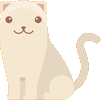
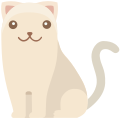
Amélioration des png des animaux sur la home

diff --git a/app/Resources/views/home/teaser/layers.less b/app/Resources/views/home/teaser/layers.less
@@ -31,25 +31,27 @@ html, body {
         }
     }
 
-    &:nth-child(2) {
-        background-image: url(../../brown-dog.png);
-        background-position: 20% bottom;
-    }
+    @media (min-width: @small-screen) {
+        &:nth-child(2) {
+            background-image: url(../../brown-dog.png);
+            background-position: 20% bottom;
+        }
 
-    &:nth-child(3) {
-        background-image: url(../../cream-cat.png);
-        background-position: 85% bottom;
-    }
+        &:nth-child(3) {
+            background-image: url(../../cream-cat.png);
+            background-position: 85% bottom;
+        }
 
-    &:nth-child(4) {
-        background-image: url(../../yellow-cat.png);
-        background-position: 50% bottom;
-    }
+        &:nth-child(4) {
+            background-image: url(../../yellow-cat.png);
+            background-position: 50% bottom;
+        }
 
-    &:nth-child(5) {
-        background-image: url(../../medal-dog.png);
-        background-position: 70% bottom;
+        &:nth-child(5) {
+            background-image: url(../../medal-dog.png);
+            background-position: 70% bottom;
 
+        }
     }
 
     .container {
